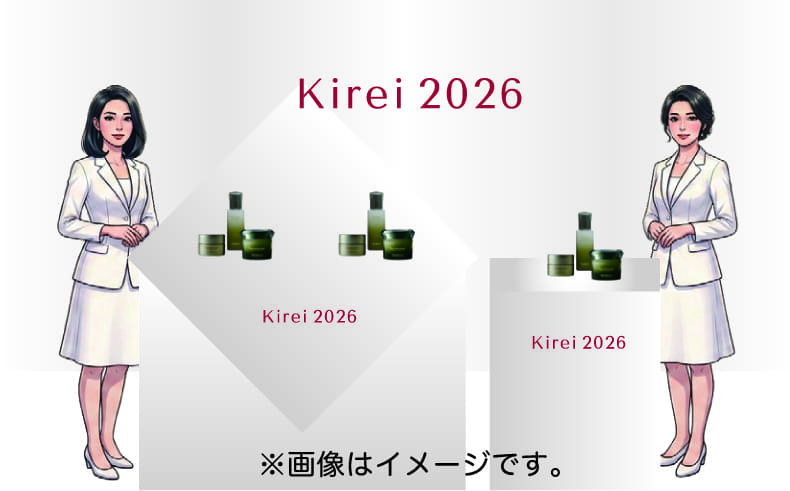
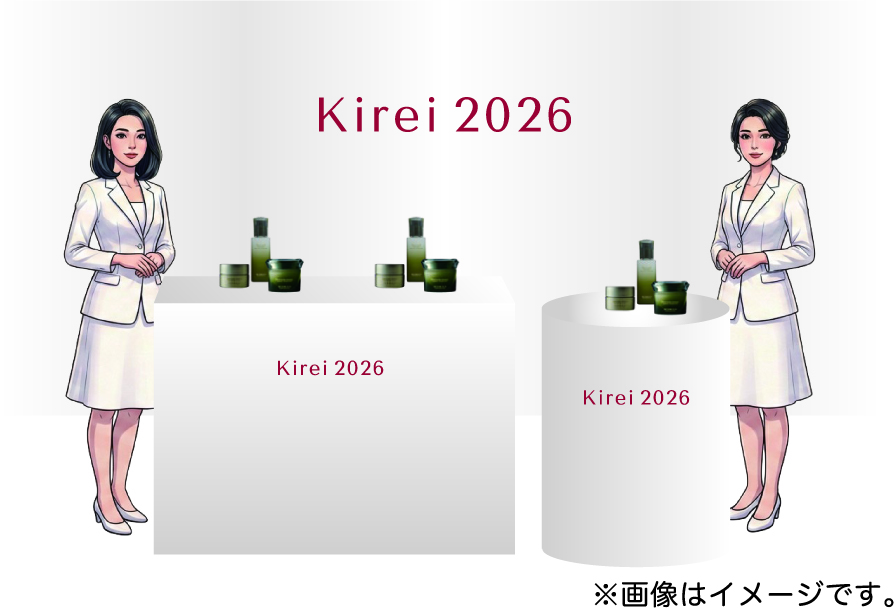
Replace Kirei touch program image without cropping

Changed region(s): [[0.0608, 0.1527, 1.0, 1.0], [0.3342, 0.1527, 0.6684, 0.2444], [0.3949, 0.336, 0.5468, 0.5499]]

diff --git a/assets/css/kirei2026.css b/assets/css/kirei2026.css
@@ -372,8 +372,28 @@
 	width: 100%;
 }
 
+.kirei2026-program-card__media.is-contain {
+	background: #fff;
+}
+
+.kirei2026-program-card__media.is-contain::after {
+	display: none;
+}
+
+.kirei2026-program-card__media.is-contain img {
+	object-fit: contain;
+}
+
+.kirei2026-program-card__media.is-contain > span {
+	color: var(--program-accent);
+}
+
 .kirei2026-program-card:hover .kirei2026-program-card__media img {
 	transform: scale(1.025);
+}
+
+.kirei2026-program-card:hover .kirei2026-program-card__media.is-contain img {
+	transform: none;
 }
 
 .kirei2026-program-card__media > span {

diff --git a/page-kirei2026.php b/page-kirei2026.php
@@ -259,9 +259,14 @@ $show_later_sections = 'mikiprune-2022renewal.3d-showcase.net' === wp_parse_url(
 						)
 					);
 					$image_url = kirei2026_image_url( $program['program_image'] );
+					$image_path = $image_url ? wp_parse_url( $image_url, PHP_URL_PATH ) : '';
+					$media_class = 'kirei2026-program-card__media';
+					if ( 'program-touch.jpg' === wp_basename( $image_path ) ) {
+						$media_class .= ' is-contain';
+					}
 					?>
 					<article class="kirei2026-program-card <?php echo esc_attr( kirei2026_accent_class( $program['program_color'] ) ); ?>">
-						<div class="kirei2026-program-card__media">
+						<div class="<?php echo esc_attr( $media_class ); ?>">
 							<?php if ( $image_url ) : ?>
 								<img src="<?php echo esc_url( $image_url ); ?>" alt="<?php echo esc_attr( $program['program_image_alt'] ); ?>" loading="lazy">
 							<?php endif; ?>
